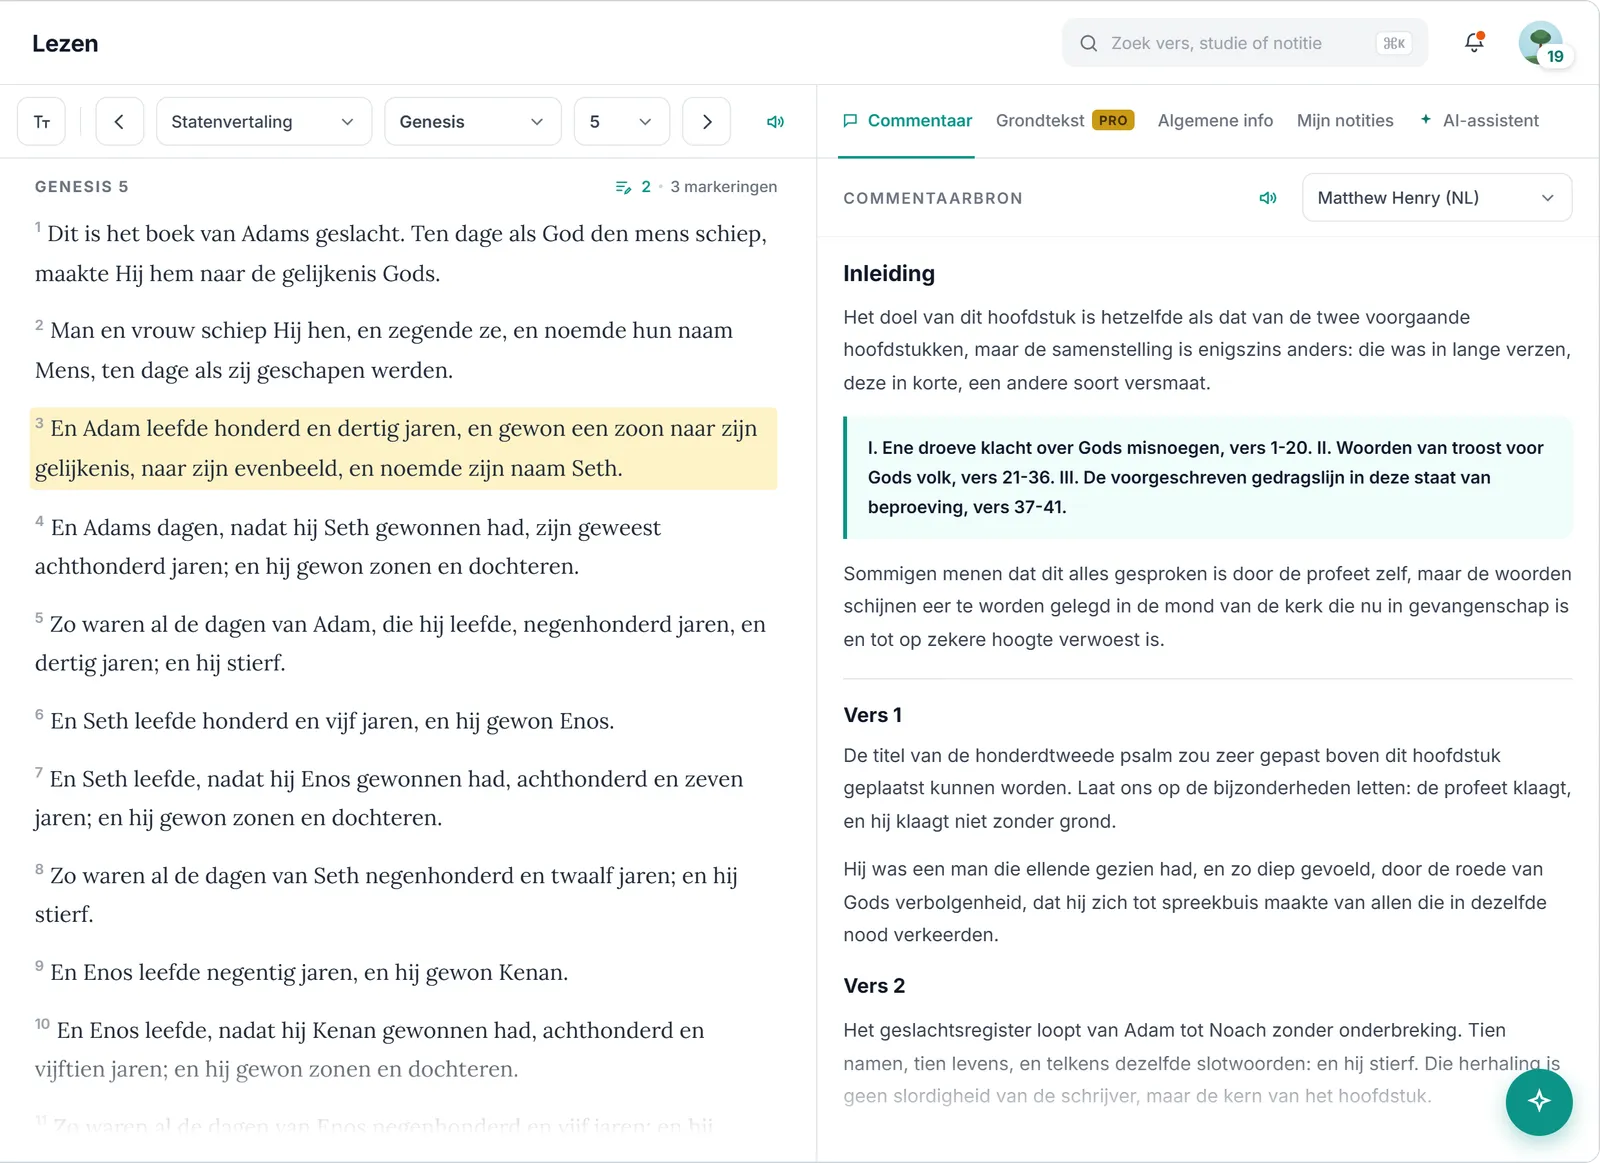
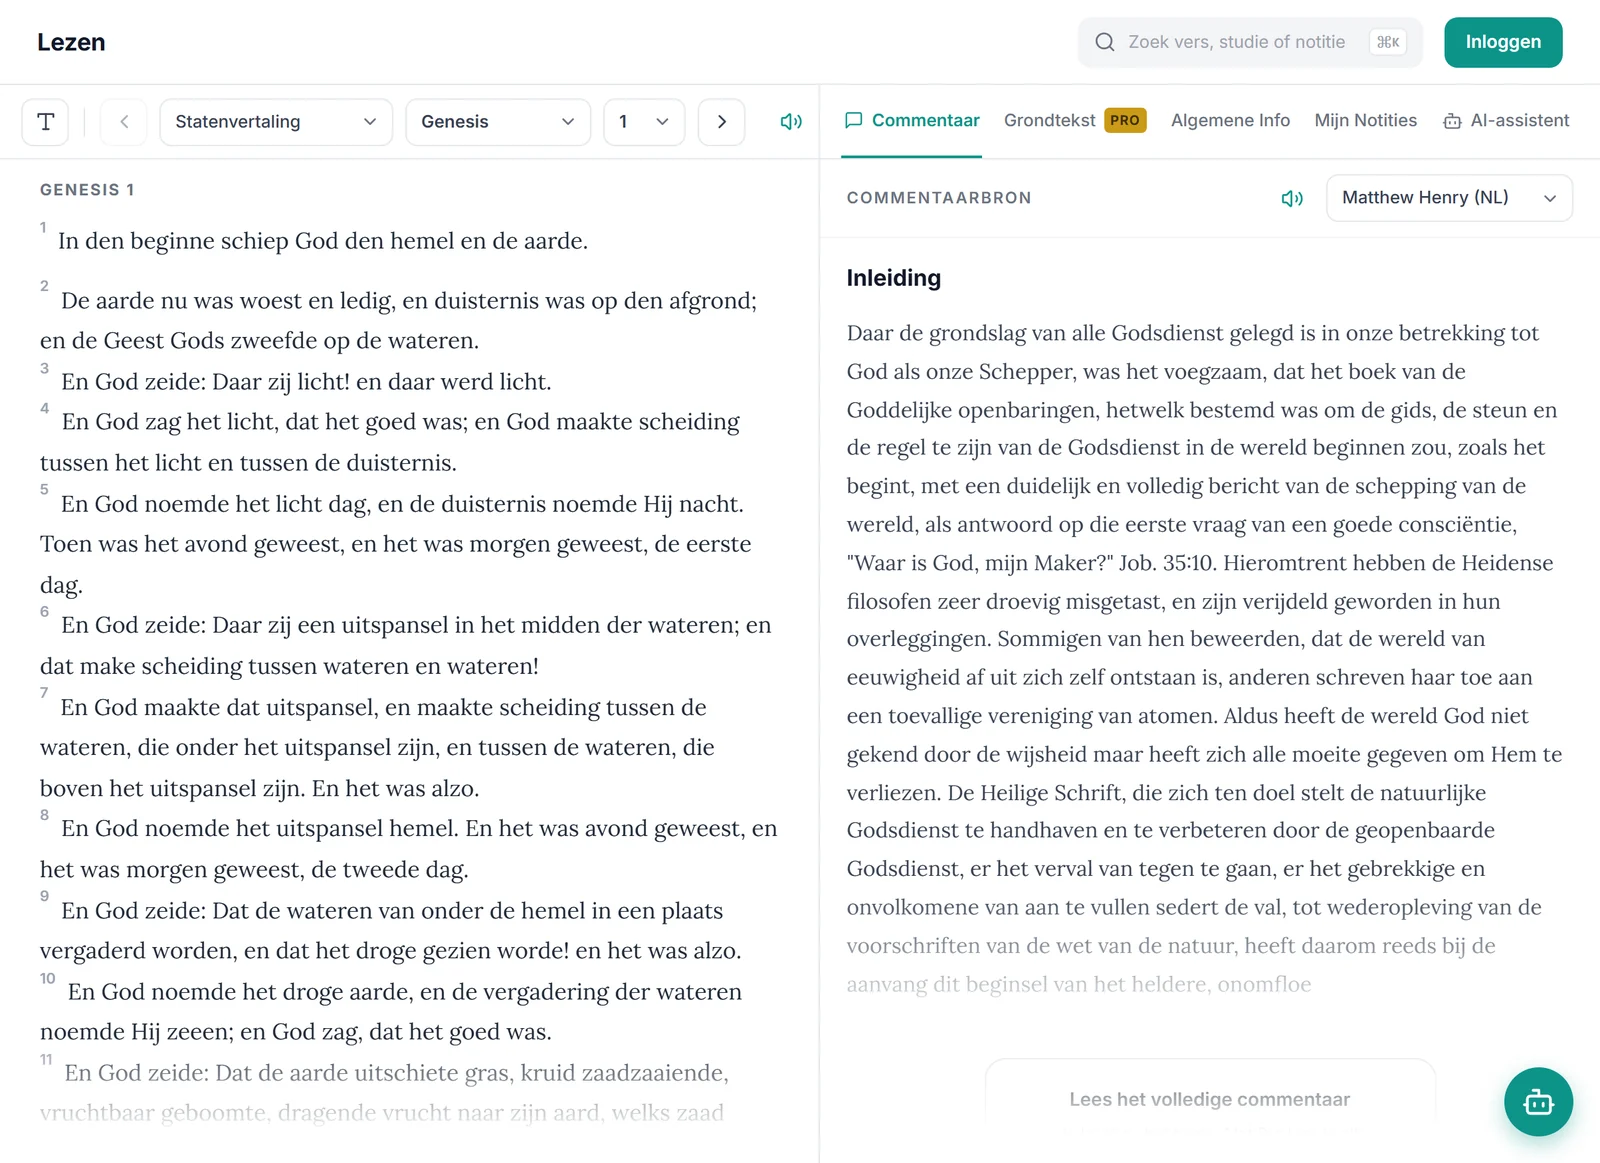
fix: Hoofdstuk quiz titles, BijbelStudie reader links, fresh screenshots
- Quiz lists derive the part marker ("Hoofdstuk"/"Deel") from the title;
  validator enforces "Hoofdstuk N" matching the cited chapter.
- BijbelStudie reader links use the Statenvertaling folder name per book
  and pass version=statenvertaling so book/chapter are honoured.
- Replace outdated BijbelStudie promo screenshots with current captures.

diff --git a/src/lib/ecosystem-links.ts b/src/lib/ecosystem-links.ts
@@ -186,6 +186,105 @@ const STUDIE_BOOK_NAMES: Record<string, string> = {
   REV: 'Openbaring',
 };
 
+/**
+ * Canonical book code to the folder name of BijbelStudie's Statenvertaling,
+ * which is what `/lezen?book=` has to match.
+ *
+ * Not the same list as `STUDIE_BOOK_NAMES` above: those are readable Dutch names
+ * for labels ("Lees 1 Korinthe 13"), these are the exact folder spellings the
+ * reader looks up, quirks included ("2 Corinthiër", "Filémon", "Haggaï").
+ * Sending the label spelling used to open Genesis 1 for a dozen books. Copied
+ * from `CANONICAL_NL` in BijbelStudie's `lib/book-mapping.ts`; keep them equal.
+ */
+const STUDIE_READER_BOOKS: Record<string, string> = {
+  GEN: 'Genesis',
+  EXOD: 'Exodus',
+  LEV: 'Leviticus',
+  NUM: 'Numeri',
+  DEUT: 'Deuteronomium',
+  JOSH: 'Jozua',
+  JUDG: 'Richteren',
+  RUTH: 'Ruth',
+  '1SAM': '1 Samuël',
+  '2SAM': '2 Samuël',
+  '1KGS': '1 Koningen',
+  '2KGS': '2 Koningen',
+  '1CHR': '1 Kronieken',
+  '2CHR': '2 Kronieken',
+  EZRA: 'Ezra',
+  NEH: 'Nehemia',
+  ESTH: 'Esther',
+  JOB: 'Job',
+  PS: 'Psalmen',
+  PROV: 'Spreuken',
+  ECCL: 'Prediker',
+  SONG: 'Hooglied',
+  ISA: 'Jesaja',
+  JER: 'Jeremia',
+  LAM: 'Klaagliederen',
+  EZEK: 'Ezechiël',
+  DAN: 'Daniël',
+  HOS: 'Hosea',
+  JOEL: 'Joël',
+  AMOS: 'Amos',
+  OBAD: 'Obadja',
+  JONAH: 'Jona',
+  MIC: 'Micha',
+  NAH: 'Nahum',
+  HAB: 'Habakuk',
+  ZEPH: 'Zefanja',
+  HAG: 'Haggaï',
+  ZECH: 'Zacharia',
+  MAL: 'Maleachi',
+  MATT: 'Mattheüs',
+  MARK: 'Markus',
+  LUKE: 'Lukas',
+  JOHN: 'Johannes',
+  ACTS: 'Handelingen',
+  ROM: 'Romeinen',
+  '1COR': '1 Corinthiërs',
+  '2COR': '2 Corinthiër',
+  GAL: 'Galaten',
+  EPH: 'Efeziërs',
+  PHIL: 'Filippenzen',
+  COL: 'Colossenzen',
+  '1THESS': '1 Thessalonicenzen',
+  '2THESS': '2 Thessalonicenzen',
+  '1TIM': '1 Timotheüs',
+  '2TIM': '2 Timotheüs',
+  TITUS: 'Titus',
+  PHLM: 'Filémon',
+  HEB: 'Hebreeën',
+  JAS: 'Jakobus',
+  '1PET': '1 Petrus',
+  '2PET': '2 Petrus',
+  '1JOHN': '1 Johannes',
+  '2JOHN': '2 Johannes',
+  '3JOHN': '3 Johannes',
+  JUDE: 'Judas',
+  REV: 'Openbaring',
+};
+
+/** The translation whose folder names `STUDIE_READER_BOOKS` holds. */
+export const STUDIE_READER_VERSION = 'statenvertaling';
+
+const CODE_BY_STUDIE_BOOK_NAME = new Map(
+  Object.entries(STUDIE_BOOK_NAMES).map(([code, name]) => [name, code]),
+);
+
+/**
+ * The spelling `/lezen?book=` needs for any name of a book: one of this file's
+ * labels, a canonical code, or anything `book-canon.ts` recognises. Unknown
+ * names pass through unchanged; BijbelStudie resolves loose spellings too.
+ */
+export function studieReaderBookName(book: string): string {
+  const code =
+    CODE_BY_STUDIE_BOOK_NAME.get(book) ??
+    (STUDIE_READER_BOOKS[book] ? book : null) ??
+    toBookCode(book);
+  return (code && STUDIE_READER_BOOKS[code]) || book;
+}
+
 /** A passage, in the spelling BijbelStudie uses. */
 export interface StudiePassage {
   /** BijbelStudie's Dutch book name, e.g. "Mattheüs". */
@@ -302,8 +401,13 @@ function withCampaign(url: URL, { surface, quizSlug }: StudieLinkOptions): strin
 /** Deep link to a chapter in BijbelStudie's reader. */
 export function studieReadHref(passage: StudiePassage, options: StudieLinkOptions): string {
   const url = new URL('/lezen', BIJBEL_STUDIE_BASE_URL);
-  url.searchParams.set('book', passage.book);
+  url.searchParams.set('book', studieReaderBookName(passage.book));
   url.searchParams.set('chapter', String(passage.chapter));
+  // BijbelStudie only honoured `book`/`chapter` when `version` came with them;
+  // without it the reader opened last-read or Genesis 1. It now accepts links
+  // without one, but naming the translation the folder names belong to keeps
+  // the link exact on any deploy.
+  url.searchParams.set('version', STUDIE_READER_VERSION);
   return withCampaign(url, options);
 }
 

diff --git a/tests/ecosystem-links.test.ts b/tests/ecosystem-links.test.ts
@@ -11,6 +11,7 @@ import {
   studiePricingHref,
   studiePromo,
   studieReadHref,
+  studieReaderBookName,
 } from '@/lib/ecosystem-links';
 
 /**
@@ -78,6 +79,7 @@ test('the read link carries the chapter and the attribution', () => {
   assert.equal(url.pathname, '/lezen');
   assert.equal(url.searchParams.get('book'), 'Genesis');
   assert.equal(url.searchParams.get('chapter'), '3');
+  assert.equal(url.searchParams.get('version'), 'statenvertaling');
   assert.equal(url.searchParams.get('utm_source'), 'bijbelquiz');
   assert.equal(url.searchParams.get('utm_medium'), 'explanation');
   assert.equal(url.searchParams.get('utm_campaign'), 'genesis-deel-1');
@@ -93,6 +95,53 @@ test('a quiz without a resolvable chapter still gets a link', () => {
   assert.equal(url.searchParams.get('utm_medium'), 'result_primary');
   assert.equal(link.passage, null);
   assert.ok(link.label.includes('BijbelStudie'));
+});
+
+// BijbelStudie's Statenvertaling folder names, in canonical order - what
+// /lezen?book= must match exactly (public/data/books-index.json over there).
+const STATENVERTALING_BOOKS = [
+  'Genesis', 'Exodus', 'Leviticus', 'Numeri', 'Deuteronomium', 'Jozua', 'Richteren', 'Ruth',
+  '1 Samuël', '2 Samuël', '1 Koningen', '2 Koningen', '1 Kronieken', '2 Kronieken', 'Ezra',
+  'Nehemia', 'Esther', 'Job', 'Psalmen', 'Spreuken', 'Prediker', 'Hooglied', 'Jesaja', 'Jeremia',
+  'Klaagliederen', 'Ezechiël', 'Daniël', 'Hosea', 'Joël', 'Amos', 'Obadja', 'Jona', 'Micha',
+  'Nahum', 'Habakuk', 'Zefanja', 'Haggaï', 'Zacharia', 'Maleachi', 'Mattheüs', 'Markus', 'Lukas',
+  'Johannes', 'Handelingen', 'Romeinen', '1 Corinthiërs', '2 Corinthiër', 'Galaten',
+  'Efeziërs', 'Filippenzen', 'Colossenzen', '1 Thessalonicenzen', '2 Thessalonicenzen',
+  '1 Timotheüs', '2 Timotheüs', 'Titus', 'Filémon', 'Hebreeën', 'Jakobus', '1 Petrus',
+  '2 Petrus', '1 Johannes', '2 Johannes', '3 Johannes', 'Judas', 'Openbaring',
+];
+
+const BOOK_CODES_IN_ORDER = [
+  'GEN', 'EXOD', 'LEV', 'NUM', 'DEUT', 'JOSH', 'JUDG', 'RUTH', '1SAM', '2SAM', '1KGS', '2KGS',
+  '1CHR', '2CHR', 'EZRA', 'NEH', 'ESTH', 'JOB', 'PS', 'PROV', 'ECCL', 'SONG', 'ISA', 'JER', 'LAM',
+  'EZEK', 'DAN', 'HOS', 'JOEL', 'AMOS', 'OBAD', 'JONAH', 'MIC', 'NAH', 'HAB', 'ZEPH', 'HAG', 'ZECH',
+  'MAL', 'MATT', 'MARK', 'LUKE', 'JOHN', 'ACTS', 'ROM', '1COR', '2COR', 'GAL', 'EPH', 'PHIL', 'COL',
+  '1THESS', '2THESS', '1TIM', '2TIM', 'TITUS', 'PHLM', 'HEB', 'JAS', '1PET', '2PET', '1JOHN',
+  '2JOHN', '3JOHN', 'JUDE', 'REV',
+];
+
+test('every book links to the exact Statenvertaling folder name BijbelStudie opens', () => {
+  assert.equal(BOOK_CODES_IN_ORDER.length, 66);
+  BOOK_CODES_IN_ORDER.forEach((code, i) => {
+    const passage = passageFromQuestion({ refBook: code, refChapter: 1 });
+    assert.ok(passage, code);
+    const url = new URL(studieReadHref(passage, { surface: 'explanation' }));
+    assert.equal(url.searchParams.get('book'), STATENVERTALING_BOOKS[i], code);
+    assert.equal(url.searchParams.get('book')?.normalize('NFC'), url.searchParams.get('book'), code);
+  });
+});
+
+test('the reported Hebreeen link and loose spellings resolve to reader names', () => {
+  const url = new URL(
+    studieReadHref({ book: 'Hebreeën', chapter: 9 }, { surface: 'explanation', quizSlug: 'hebreeen-bijbelquiz-deel-9' }),
+  );
+  assert.equal(url.searchParams.get('book'), 'Hebreeën');
+  assert.equal(url.searchParams.get('chapter'), '9');
+  assert.equal(studieReaderBookName('1 Korinthe'), '1 Corinthiërs');
+  assert.equal(studieReaderBookName('1 Korintiers'), '1 Corinthiërs');
+  assert.equal(studieReaderBookName('Filemon'), 'Filémon');
+  assert.equal(studieReaderBookName('2COR'), '2 Corinthiër');
+  assert.equal(studieReaderBookName('Onbekend'), 'Onbekend');
 });
 
 test('a diacritic in the book name survives the query string intact', () => {

diff --git a/src/app/bijbelstudie/page.tsx b/src/app/bijbelstudie/page.tsx
@@ -134,7 +134,7 @@ export default function BijbelStudiePage() {
             <div className="relative aspect-[1600/1167] overflow-hidden rounded-lg border border-rule bg-paper-sunken">
               <Image
                 src="/images/bijbelstudie/lezen.webp"
-                alt="Genesis 5 in de Statenvertaling op BijbelStudie, met het commentaar van Matthew Henry ernaast"
+                alt="Genesis 1 in de Statenvertaling op BijbelStudie, met het commentaar van Matthew Henry ernaast"
                 fill
                 priority
                 sizes="(max-width: 1024px) 100vw, 640px"
@@ -184,7 +184,7 @@ export default function BijbelStudiePage() {
             <div className="relative aspect-[1600/1167] overflow-hidden rounded-lg border border-rule bg-paper-sunken">
               <Image
                 src="/images/bijbelstudie/studies.webp"
-                alt="Een begeleide studie van Exodus op BijbelStudie, met veertig lessen van ongeveer tien minuten"
+                alt="De begeleide studie van Filippenzen op BijbelStudie: vier lessen van ongeveer tien minuten per hoofdstuk"
                 fill
                 sizes="(max-width: 1024px) 100vw, 640px"
                 className="object-cover object-left-top"

diff --git a/src/components/quiz-index/versie-2/library.ts b/src/components/quiz-index/versie-2/library.ts
@@ -5,7 +5,7 @@
  */
 
 import type { QuizIndexBook, QuizIndexQuiz } from '@/lib/quiz-index-data';
-import { normalizeSearchText } from '@/lib/quiz-series';
+import { normalizeSearchText, partMarker } from '@/lib/quiz-series';
 import type { Pigment } from '@/components/editorial';
 
 /** Difficulty carries a pigment: verdigris, neutral, vermilion. Never a fill. */
@@ -63,9 +63,9 @@ export function chapterLabel(quiz: Pick<QuizIndexQuiz, 'chapterFrom' | 'chapterT
   return `Hfdst. ${quiz.chapterFrom}-${quiz.chapterTo}`;
 }
 
-/** Short row title: "Deel 3" inside a series, the full title otherwise. */
+/** Short row title: "Hoofdstuk 3" / "Deel 3" inside a series, the full title otherwise. */
 export function rowTitle(quiz: Pick<QuizIndexQuiz, 'part' | 'title'>): string {
-  return quiz.part > 0 ? `Deel ${quiz.part}` : quiz.title;
+  return quiz.part > 0 ? (partMarker(quiz.title) ?? `Deel ${quiz.part}`) : quiz.title;
 }
 
 /** Quizzes of one book, in reading order: chapter first, then part, then title. */

diff --git a/src/components/quiz-index/versie-3/contents-model.ts b/src/components/quiz-index/versie-3/contents-model.ts
@@ -8,7 +8,7 @@
 
 import { BOOK_GROUPS, bookOrder, type BookGroup, type Testament } from '@/lib/bible-books';
 import type { QuizIndexBook, QuizIndexQuiz } from '@/lib/quiz-index-data';
-import { normalizeSearchText } from '@/lib/quiz-series';
+import { normalizeSearchText, partMarker } from '@/lib/quiz-series';
 
 export type Quiz = QuizIndexQuiz;
 export type Book = QuizIndexBook;
@@ -56,9 +56,9 @@ export function bestScore(quiz: Quiz): string | null {
   return `${quiz.progress?.bestCorrectAnswers ?? 0}/${total}`;
 }
 
-/** "Deel 5" inside a series, the full title otherwise. */
+/** "Hoofdstuk 5" / "Deel 5" inside a series, the full title otherwise. */
 export function partLabel(quiz: Quiz): string {
-  return quiz.part > 0 ? `Deel ${quiz.part}` : quiz.title;
+  return quiz.part > 0 ? (partMarker(quiz.title) ?? `Deel ${quiz.part}`) : quiz.title;
 }
 
 /** Canonical order: book, first chapter, part, title. */

diff --git a/src/components/quiz-index/versie-1/QuizRow.tsx b/src/components/quiz-index/versie-1/QuizRow.tsx
@@ -4,6 +4,7 @@ import Link from 'next/link';
 import { ArrowRight, Check } from 'lucide-react';
 
 import { cn } from '@/lib/utils';
+import { partMarker } from '@/lib/quiz-series';
 import { bestScoreLabel, difficultyOf, isPlayed, quizHref, type Quiz } from './shelves';
 
 /**
@@ -34,8 +35,10 @@ export function QuizRow({
 
   const meta: string[] = [];
   if (showBook && quiz.bookTitle) meta.push(chapter ? `${quiz.bookTitle} ${chapter}` : quiz.bookTitle);
-  if (quiz.part > 0) meta.push(`Deel ${quiz.part}`);
-  if (!showBook && chapter) meta.push(`Hoofdstuk ${chapter}`);
+  const marker = quiz.part > 0 ? (partMarker(quiz.title) ?? `Deel ${quiz.part}`) : null;
+  // A "Hoofdstuk N" title already names the chapter; do not print it twice.
+  if (marker) meta.push(marker);
+  if (!showBook && chapter && !marker?.startsWith('Hoofdstuk')) meta.push(`Hoofdstuk ${chapter}`);
 
   return (
     <Link

diff --git a/src/lib/quiz-series.ts b/src/lib/quiz-series.ts
@@ -62,6 +62,17 @@ export function readSeries(title: string): QuizSeries {
   return { label: base, key: normalizeSearchText(base), part };
 }
 
+/**
+ * The part marker exactly as the title words it - "Hoofdstuk 5" or "Deel 5" -
+ * so a short row label never renames a chapter quiz to a "Deel". Null when the
+ * title carries no Hoofdstuk/Deel marker.
+ */
+export function partMarker(title: string): string | null {
+  const match = (title || '').trim().match(/\b(hoofdstuk|deel)\s*([0-9]+)\s*$/i);
+  if (!match) return null;
+  return `${match[1].charAt(0).toUpperCase()}${match[1].slice(1).toLowerCase()} ${match[2]}`;
+}
+
 /** Keep the incoming order, but pull every part of a series together, in order. */
 export function groupSeries<T extends { title: string }>(items: T[]): T[] {
   const firstSeen = new Map<string, number>();

diff --git a/scripts/validate-quiz-json.ts b/scripts/validate-quiz-json.ts
@@ -305,6 +305,15 @@ async function validate(file: string, slugsSeen: Map<string, string>): Promise<R
     );
   }
 
+  // ── title: "<Boek> bijbelquiz - Hoofdstuk <n>", n = the chapter covered ──
+  const title = String(quiz.title ?? '');
+  const chapterInTitle = title.match(/ - Hoofdstuk (\d+)$/);
+  if (!chapterInTitle) {
+    warn(`titel volgt niet "<Boek> bijbelquiz - Hoofdstuk <n>": "${title}"`);
+  } else if (passage && Number(chapterInTitle[1]) !== passage.chapter) {
+    err(`titel noemt hoofdstuk ${chapterInTitle[1]}, maar de vragen gaan over hoofdstuk ${passage.chapter}`);
+  }
+
   // ── every reference must resolve to real Statenvertaling text ────────────
   if (!NO_FETCH) {
     for (const { index, ref } of refsToCheck) {

diff --git a/src/components/StudiePromoModal.tsx b/src/components/StudiePromoModal.tsx
@@ -159,7 +159,7 @@ export default function StudiePromoModal({ passage, quizSlug }: StudiePromoModal
           <div className="relative mx-7 mt-5 hidden aspect-[16/6] overflow-hidden rounded-md border border-rule bg-paper-sunken sm:block">
             <Image
               src="/images/bijbelstudie/lezen.webp"
-              alt="Genesis 5 in BijbelStudie, met het commentaar van Matthew Henry ernaast"
+              alt="Genesis 1 in BijbelStudie, met het commentaar van Matthew Henry ernaast"
               fill
               sizes="520px"
               className="object-cover object-left-top"
